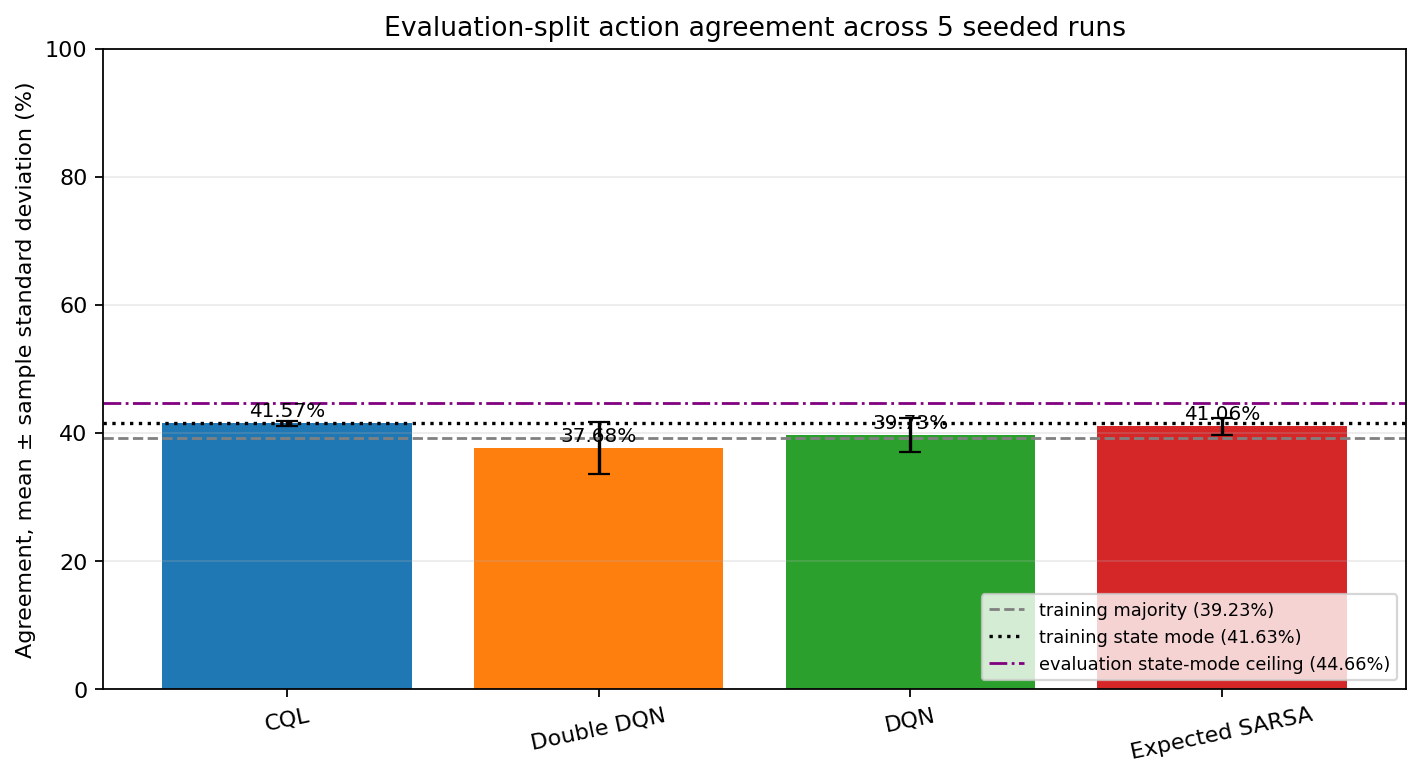
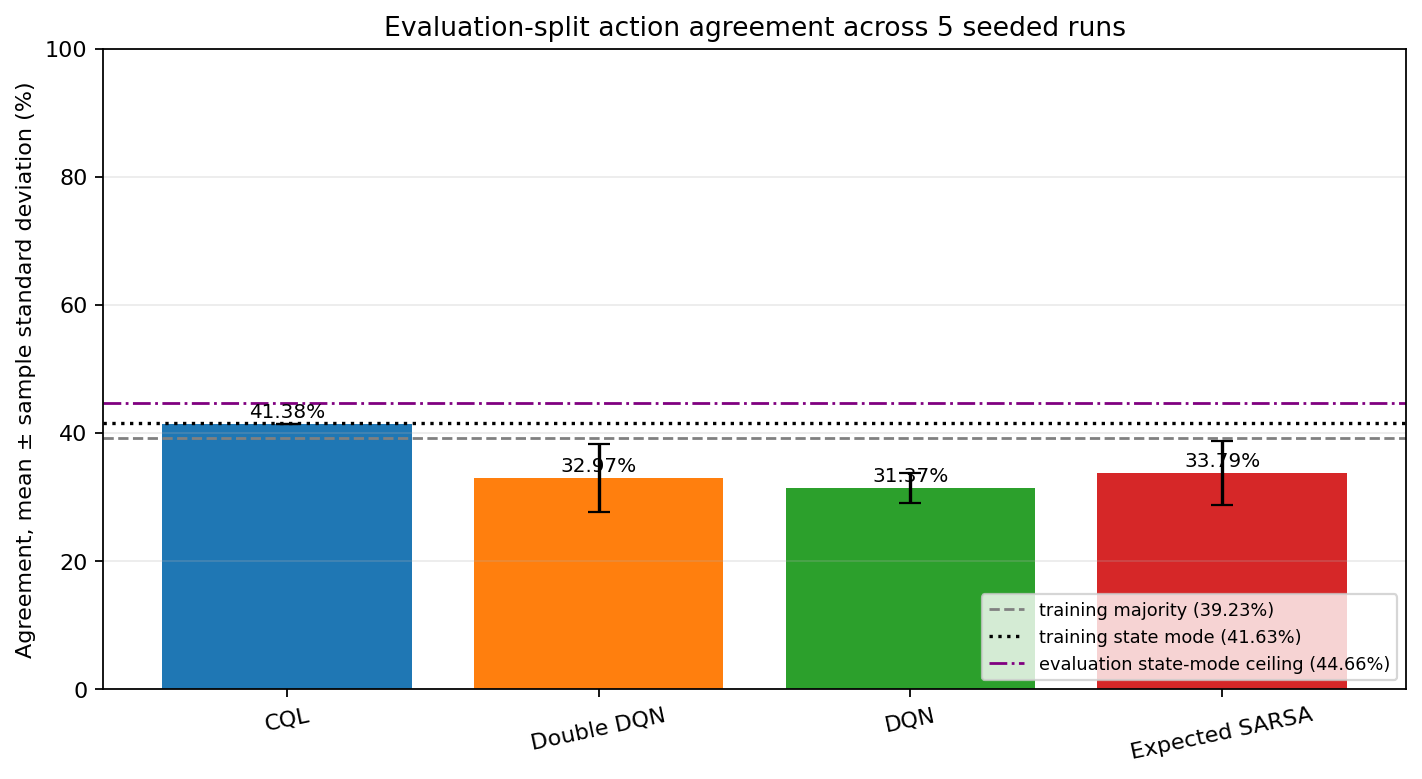
docs: publish verified five-seed benchmark

Changed region(s): [[0.3094, 0.5237, 0.7426, 0.6778], [0.7736, 0.5237, 0.9592, 0.647], [0.1857, 0.5237, 0.2475, 0.5546]]

diff --git a/docs/results/BENCHMARK.md b/docs/results/BENCHMARK.md
@@ -1,4 +1,4 @@
-# Five-Seed Diagnostic Benchmark
+# Five-Seed, 50-Epoch Release-Candidate Benchmark
 
 [README](../../README.md) ·
 [Reproducibility](../REPRODUCIBILITY.md) ·
@@ -6,25 +6,25 @@
 
 ## Status
 
-This is a **pre-release diagnostic snapshot**, generated locally on 31 July 2026 to
-exercise the complete multi-seed pipeline. It is included because the class-level
-results expose a substantive model limitation that overall accuracy alone would
-hide.
+This benchmark was generated locally on 31 July 2026 from clean source commit
+`7ba76df867462235b1efa6d22578438914e1b4b9` on branch
+`refactor/linkedin-showcase`. Every run recorded `git_dirty: false`; the aggregate
+manifest verified all 59 retained files after generation.
 
-The run occurred after the version 2.0 refactor was present in the working tree but
-before that refactor had an immutable commit. The configuration, data fingerprints,
-runtime, seed schedule, and generated metrics are known; the exact source state is
-not recoverable from a Git commit. Rerun from the eventual tagged release before
-using these values as a formal public benchmark.
+The results are release-candidate evidence, not a claim that the branch has already
+passed GitHub-hosted CI or been merged into `main`.
 
 ## Protocol
 
 ```bash
 gridworld-rl benchmark \
-  --config configs/default.json \
+  --data-dir Gridworld-10_Dataset \
+  --epochs 50 \
+  --device cpu \
+  --cql-alpha 1.0 \
   --seeds 11 22 33 44 55 \
-  --output-dir /tmp/gridworld-showcase-verification \
-  --name five-seed
+  --output-dir artifacts/benchmarks \
+  --name linkedin-50-epoch-five-seed
 ```
 
 | Dimension | Value |
@@ -36,9 +36,8 @@ gridworld-rl benchmark \
 | Unique full evaluation transitions | 534 (5,010 duplicate rows) |
 | Evaluation states with conflicting actions | 77 / 91 |
 | Logged state-action coverage | 346 / 400 pairs (86.5%) |
-| Logged action counts | a0: 2,940; a1: 8,428; a2: 2,919; a3: 7,885 |
 | Algorithms | DQN, Double DQN, Expected SARSA, CQL |
-| Epochs | 20 |
+| Epochs | 50 |
 | Network | One-hot state input; hidden widths 128 and 64; four outputs |
 | Optimizer | Adam, learning rate 0.001 |
 | Batch size | 128 |
@@ -61,14 +60,13 @@ eval_solution   a49bf745e7ac3d9db082e21010e0bc36e530c49b0c7255ad13c4273b234d19f1
 ## Aggregate action agreement
 
 Values are mean ± sample standard deviation across the five declared seeds.
-Minimum and maximum are shown to make the observed range explicit.
 
 | Algorithm | Mean ± std | Minimum | Maximum |
 | --- | ---: | ---: | ---: |
-| CQL | 41.57% ± 0.40% | 41.13% | 42.08% |
-| Expected SARSA | 41.06% ± 1.30% | 38.74% | 41.88% |
-| DQN | 39.73% ± 2.61% | 35.84% | 42.08% |
-| Double DQN | 37.68% ± 4.03% | 31.93% | 41.38% |
+| CQL | 41.38% ± 0.01% | 41.38% | 41.40% |
+| Expected SARSA | 33.79% ± 5.02% | 29.98% | 42.30% |
+| Double DQN | 32.97% ± 5.29% | 28.14% | 42.05% |
+| DQN | 31.37% ± 2.34% | 29.64% | 35.37% |
 | Training-majority reference (always action 1) | 39.23% | 39.23% | 39.23% |
 | Training per-state-mode reference | 41.63% | 41.63% | 41.63% |
 | Evaluation-fitted state-mode ceiling | 44.66% | 44.66% | 44.66% |
@@ -82,63 +80,46 @@ baseline.
 
 ## Per-action diagnostic
 
-The solution support is fixed across seeds: action 0 has 698 examples, action 1 has
-2,175, action 2 has 734, and action 3 has 1,937. Mean recall across seeds was:
+Mean recall ± sample standard deviation across seeds was:
 
 | Algorithm | Action 0 | Action 1 | Action 2 | Action 3 |
 | --- | ---: | ---: | ---: | ---: |
-| CQL | 0.00% | 40.63% | 0.14% | 73.32% |
-| Expected SARSA | 0.00% | 49.79% | 3.24% | 60.37% |
-| DQN | 0.03% | 46.67% | 3.76% | 59.87% |
-| Double DQN | 2.95% | 37.31% | 4.03% | 63.38% |
+| CQL | 0.57% ± 0.00% | 17.31% ± 0.28% | 0.19% ± 0.07% | 98.72% ± 0.28% |
+| Expected SARSA | 4.27% ± 5.34% | 44.00% ± 26.50% | 0.82% ± 1.16% | 45.46% ± 19.28% |
+| Double DQN | 5.79% ± 8.79% | 31.41% ± 33.80% | 1.55% ± 1.53% | 56.41% ± 23.41% |
+| DQN | 3.55% ± 4.63% | 27.74% ± 19.63% | 3.19% ± 4.57% | 56.15% ± 15.43% |
 
-The learned greedy policies strongly favor actions 1 and 3. In particular, CQL and
-Expected SARSA achieved zero recall for action 0 in every seed, and DQN's mean action
-0 recall was effectively zero. Action 2 recall was also poor for every method.
+The overall CQL score is exceptionally consistent, but the class-level evidence
+shows why that should not be described as broad policy stability: its learned
+greedy policy almost always recovers action 3 and nearly never recovers actions 0
+or 2. The other methods vary substantially across seeds and also perform poorly on
+actions 0 and 2.
 
-The logged training data itself is imbalanced toward actions 1 and 3, despite
-covering 346 of the 400 possible state-action pairs. Aggregate pair coverage says
-that a pair appears at least once; it does not describe visit frequency,
-state-conditional support quality, or how often a learned policy selects actions
-outside well-supported regions.
+The training data is imbalanced toward actions 1 and 3. More fundamentally, this
+evaluation split cannot estimate out-of-sample generalization: 99.04% of its rows
+exactly reproduce a transition present in training, it contains only 534 unique
+full transitions across 5,544 rows, and 77 of 91 states carry conflicting action
+labels. The 44.66% evaluation-fitted state-mode ceiling quantifies the ambiguity
+for any deterministic policy that receives only the state.
 
-More fundamentally, this evaluation split cannot estimate out-of-sample
-generalization: 99.04% of its rows exactly reproduce a transition present in
-training, it contains only 534 unique full transitions across 5,544 rows, and 77 of
-91 states carry conflicting action labels. The 44.66% evaluation-fitted state-mode
-ceiling quantifies how much ambiguity remains for any deterministic policy that
-receives only the state.
+## Interpretation
 
-This changes the interpretation of the aggregate table:
-
-- CQL had the highest mean agreement and lowest observed variation in this run, but
-  did not recover action 0 and almost never recovered action 2.
-- Always choosing the most frequent training action would score 39.23%, while a
-  per-state training mode scores 41.63%; no learned method exceeded that stronger
-  trivial reference on average.
-- The small mean differences do not establish superiority; no inferential test or
-  confidence interval was predeclared.
-- The final CQL objective includes a conservative penalty and is not numerically
-  comparable with the TD-only objectives.
-- A confusion matrix and class support are essential; one scalar can mask action
-  collapse.
+- CQL had the highest mean agreement and the smallest observed standard deviation,
+  but its per-action recall reveals a strongly collapsed action distribution.
+- No learned method exceeded the 41.63% training per-state-mode reference on mean
+  agreement.
+- The small evaluation ceiling and contradictory labels limit the attainable score
+  for deterministic state-only policies.
+- These five seeds describe this declared protocol. They do not establish
+  statistical superiority, safety, optimality, or online-return performance.
 
 ## Claim boundary
 
-This snapshot supports the engineering statement that the current pipeline can run
-all four methods over multiple seeds and persist aggregate and class-level
-diagnostics.
+This benchmark supports the engineering statement that the repository reproducibly
+runs four offline value-learning baselines across declared seeds and retains
+configuration, source, data, runtime, class-level, and integrity evidence.
 
-It does not support claims about:
-
-- online cumulative return;
-- out-of-sample policy generalization;
-- an optimal or safe policy;
-- statistical superiority;
-- transfer to another dataset or state representation; or
-- a clean-release reproduction.
-
-For a publishable rerun, follow the
-[reproducibility protocol](../REPRODUCIBILITY.md), record the source commit, preserve
-the complete benchmark directory, and avoid further tuning on the same evaluation
-solution.
+It does not support claims about online cumulative return, out-of-sample policy
+generalization, an optimal or safe policy, statistical superiority, or transfer to
+another dataset. See the [reproducibility protocol](../REPRODUCIBILITY.md) before
+publishing another comparison.

diff --git a/README.md b/README.md
@@ -169,10 +169,13 @@ want an atomic replacement.
 
 ```bash
 gridworld-rl benchmark \
-  --config configs/default.json \
+  --data-dir Gridworld-10_Dataset \
+  --epochs 50 \
+  --device cpu \
+  --cql-alpha 1.0 \
   --seeds 11 22 33 44 55 \
   --output-dir artifacts/benchmarks \
-  --name showcase
+  --name linkedin-50-epoch-five-seed
 ```
 
 This creates one full run per seed plus aggregate JSON, a mean/standard-deviation
@@ -192,19 +195,20 @@ package builds, and both CLI entry points. The tests use synthetic fixtures and 
 not require the external Gridworld dataset. Use `python -m pytest -q` when only the
 test suite is needed.
 
-## Verified diagnostic snapshot
+## Verified five-seed release-candidate benchmark
 
-The full default configuration was exercised locally on 31 July 2026 across seeds
-11, 22, 33, 44, and 55. The table reports provided evaluation-split action agreement
-as mean ± sample standard deviation—not out-of-sample generalization or environment
-return.
+The real dataset was exercised locally for 50 epochs on CPU across seeds 11, 22,
+33, 44, and 55. All runs reference clean source commit `7ba76df`, record identical
+dataset and runtime provenance, and pass the generated integrity manifest. The table
+reports provided evaluation-split action agreement as mean ± sample standard
+deviation—not out-of-sample generalization or environment return.
 
 | Algorithm                                   | Action agreement |
 | ------------------------------------------- | ---------------: |
-| CQL                                         |  41.57% ± 0.40% |
-| Expected SARSA                              |  41.06% ± 1.30% |
-| DQN                                         |  39.73% ± 2.61% |
-| Double DQN                                  |  37.68% ± 4.03% |
+| CQL                                         |  41.38% ± 0.01% |
+| Expected SARSA                              |  33.79% ± 5.02% |
+| Double DQN                                  |  32.97% ± 5.29% |
+| DQN                                         |  31.37% ± 2.34% |
 | Training-majority reference (always action 1) |        39.23% |
 | Training per-state-mode reference             |        41.63% |
 | Evaluation-fitted state-mode ceiling          |        44.66% |
@@ -217,15 +221,14 @@ fair predictive baseline.
 
 The evaluation split is not substantively held out: 5,491 of 5,544 rows (99.04%)
 exactly match training transitions, 5,010 rows duplicate another evaluation row,
-and 77 of 91 states have conflicting action labels. Every method also had very low
-recall for actions 0 and 2; no learned mean exceeded the 41.63% training
-per-state-mode reference. This snapshot demonstrates why the pipeline preserves
-overlap, ambiguity, and class-level diagnostics; it does **not** establish
-algorithm superiority or out-of-sample policy quality.
-It was run as pre-release verification before the refactor had an immutable commit,
-so rerun it from a clean, tagged revision before citing it externally. The
-[benchmark note](docs/results/BENCHMARK.md) records the complete config, hashes,
-runtime, per-action recalls, and claim boundary.
+and 77 of 91 states have conflicting action labels. Every method had very low recall
+for actions 0 and 2; CQL's extremely small overall standard deviation coincided with
+98.72% mean recall for action 3 and near-zero recall for actions 0 and 2. No learned
+mean exceeded the 41.63% training per-state-mode reference. These results demonstrate
+why the pipeline preserves overlap, ambiguity, and class-level diagnostics; they do
+**not** establish algorithm superiority, broad policy stability, or out-of-sample
+policy quality. The [benchmark note](docs/results/BENCHMARK.md) records the complete
+config, commit, hashes, runtime, ranges, per-action recalls, and claim boundary.
 
 ## Evaluation: what the score means
 

diff --git a/CHANGELOG.md b/CHANGELOG.md
@@ -37,8 +37,8 @@ tagged releases.
 - A non-root Docker runtime and pinned dependencies.
 - MIT license, security policy, contributing guide, citation metadata, architecture
   and reproducibility guides, a technical audit, and a migration guide.
-- A provenance-labelled five-seed diagnostic snapshot that preserves class-level
-  failure evidence instead of presenting only aggregate accuracy.
+- A provenance-labelled five-seed, 50-epoch real-data benchmark that preserves
+  class-level failure evidence instead of presenting only aggregate agreement.
 - Staged single-run publication with explicit atomic replacement, plus immutable
   benchmark destinations that protect completed evidence from accidental overwrite.
 - A `--data-dir` convenience option, option-only invocations that default to
